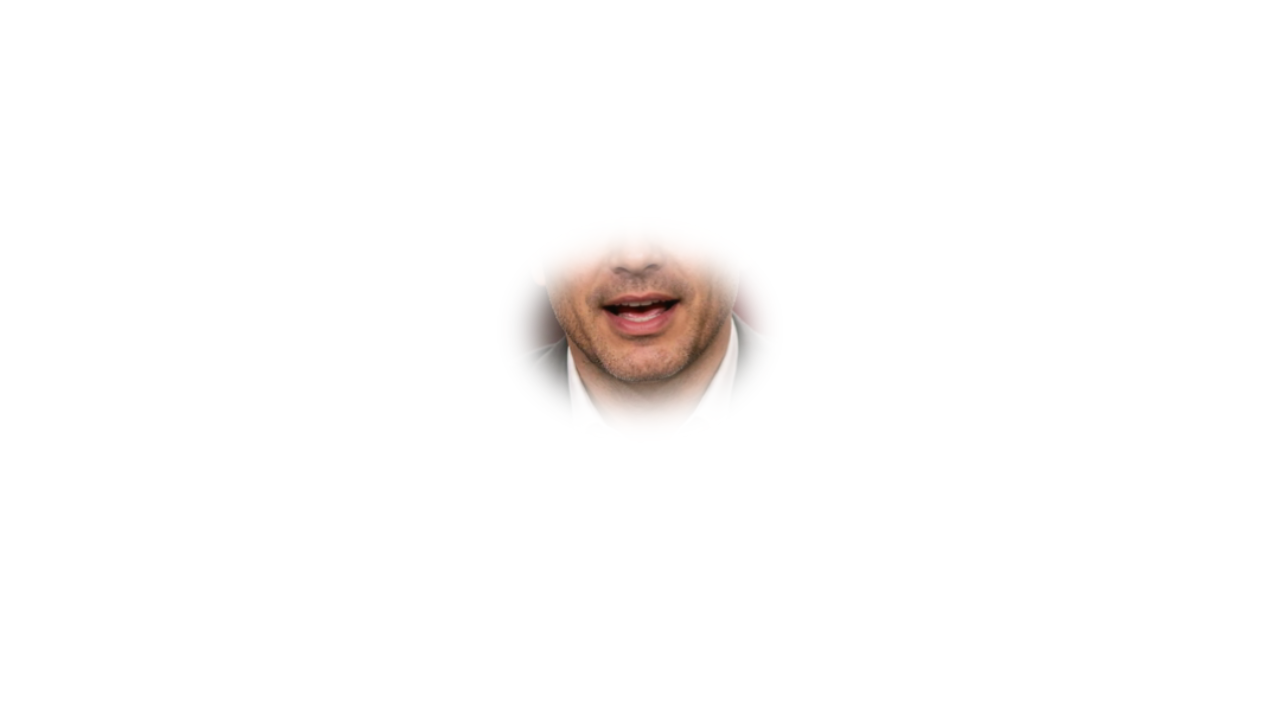
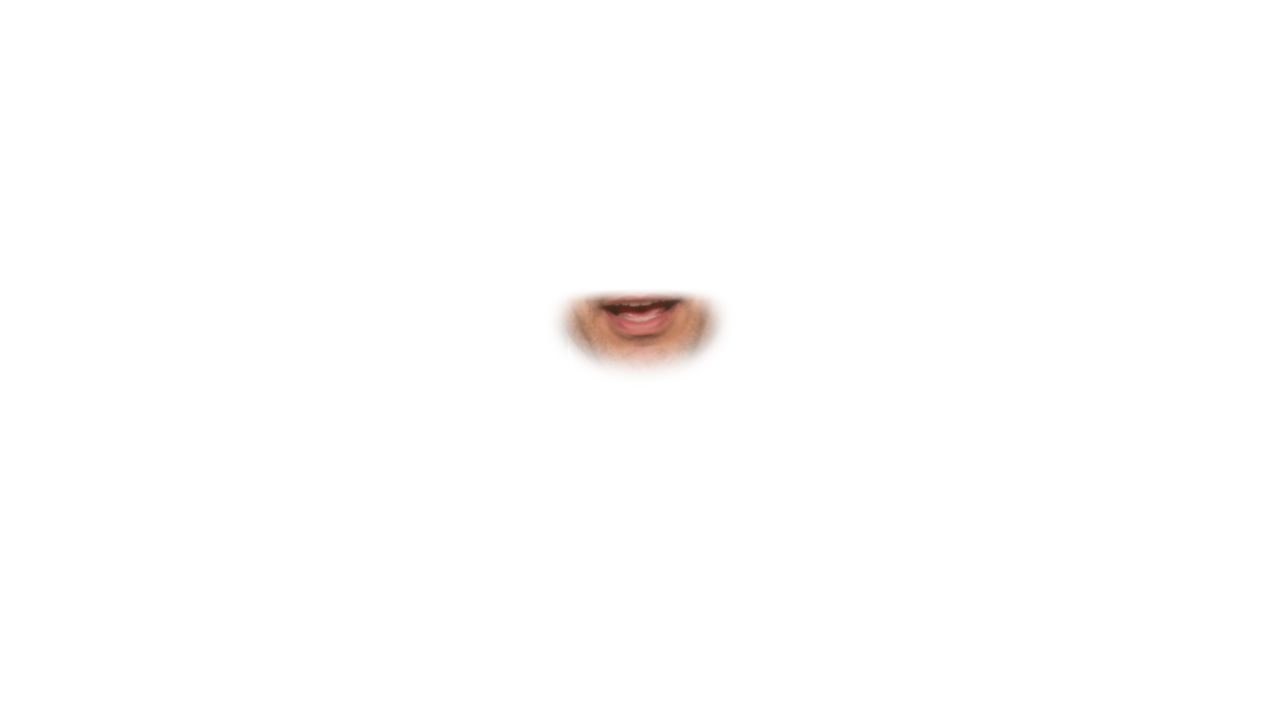
Voice you can follow, and a smaller mouth that leaves the nose alone
MMS drops punctuation, "%", "$" and decimal points, so the anchor's lines came out as run-ons
with mangled figures. speech_text rewrites each line for the ear and cuts it at commas; each
phrase is voiced alone with a short pause, at calmer settings, at a steady level. Whisper as an
offline listener: word errors 0.22 -> 0.17, figures from garbled to word-perfect.

The mouth patch covers only lips and upper chin, with a hard edge under the nose, and opens at
most 70 %, in proportion to loudness (page and segment alike).

Changed region(s): [[0.4062, 0.3361, 0.5938, 0.5806]]

diff --git a/src/studio/web/index.html b/src/studio/web/index.html
@@ -407,6 +407,7 @@ function anchorBus() {
 // The anchor's mouth: how loud his voice is right now, read from the audio being played. Plain
 // arithmetic, no model: the organisers allow only Meta models at runtime, and the open mouth
 // itself was drawn once by Muse Image (scripts/anchor_mouth.py).
+const MOUTH_MAX = 0.7;                   // compose.MOUTH_MAX: the same in the segment
 let mouthLevel = 0, mouthPeak = 0.05;
 const mouthBuf = new Float32Array(1024);
 function mouthOpen() {
@@ -417,7 +418,8 @@ function mouthOpen() {
     rms = Math.sqrt(rms / mouthBuf.length);
   }
   mouthPeak = Math.max(rms, mouthPeak * 0.998, 0.02);      // follows the voice's own loudness
-  const target = rms < 0.006 ? 0 : Math.min(1, rms / (0.7 * mouthPeak)) ** 0.7;
+  // At most 70 % open, and in proportion to loudness: a full flap read as too much.
+  const target = rms < 0.006 ? 0 : MOUTH_MAX * Math.min(1, rms / (0.85 * mouthPeak));
   mouthLevel += (target - mouthLevel) * (target > mouthLevel ? 0.65 : 0.4);  // opens fast, closes softly
   return mouthLevel;
 }

diff --git a/src/studio/speech_text.py b/src/studio/speech_text.py
@@ -1,0 +1,166 @@
+"""The anchor's lines rewritten as words MMS-TTS can say, and cut at commas into phrases.
+
+MMS's English vocabulary is lowercase letters, an apostrophe, a hyphen and a few digits: it drops
+punctuation, "%", "$" and decimal points, so "$2.4m, up 40%" reached the voice as "24m up 40",
+one breathless run-on. Here numbers, money, percentages, years and acronyms become words, and
+each comma or dash becomes a phrase boundary, voiced separately with a short pause between
+(tts.py). Plain string rules, no model.
+"""
+
+from __future__ import annotations
+
+import re
+
+_ONES = [
+    "zero",
+    "one",
+    "two",
+    "three",
+    "four",
+    "five",
+    "six",
+    "seven",
+    "eight",
+    "nine",
+    "ten",
+    "eleven",
+    "twelve",
+    "thirteen",
+    "fourteen",
+    "fifteen",
+    "sixteen",
+    "seventeen",
+    "eighteen",
+    "nineteen",
+]
+_TENS = ["_", "_", "twenty", "thirty", "forty", "fifty", "sixty", "seventy", "eighty", "ninety"]
+_SCALES = [(10**12, "trillion"), (10**9, "billion"), (10**6, "million"), (1000, "thousand")]
+_LETTERS = {
+    "a": "ay", "b": "bee", "c": "see", "d": "dee", "e": "ee", "f": "eff", "g": "jee",
+    "h": "aitch", "i": "eye", "j": "jay", "k": "kay", "l": "el", "m": "em", "n": "en", "o": "oh",
+    "p": "pee", "q": "cue", "r": "ar", "s": "ess", "t": "tee", "u": "you", "v": "vee",
+    "w": "double you", "x": "ex", "y": "why", "z": "zed",
+}  # fmt: skip
+# Acronyms said as words, not letters.
+_SAID_AS_WORDS = {"NASA", "NATO", "OPEC", "COVID", "FIFA", "UNESCO", "SPAC", "ESG", "GAAP"}
+_SAID_AS_WORDS -= {"ESG"}  # E-S-G is spelled out
+_SUFFIX = {"k": "thousand", "m": "million", "mn": "million", "bn": "billion", "b": "billion",
+           "tn": "trillion", "t": "trillion"}  # fmt: skip
+_CURRENCY = {"$": "dollars", "£": "pounds", "€": "euros", "¥": "yen"}
+
+
+def number(n: int) -> str:
+    if n < 0:
+        return "minus " + number(-n)
+    if n < 20:
+        return _ONES[n]
+    if n < 100:
+        t, o = divmod(n, 10)
+        return _TENS[t] + ("-" + _ONES[o] if o else "")
+    if n < 1000:
+        h, r = divmod(n, 100)
+        return _ONES[h] + " hundred" + (" and " + number(r) if r else "")
+    for size, name in _SCALES:
+        if n >= size:
+            big, r = divmod(n, size)
+            rest = "" if not r else (" and " if r < 100 else " ") + number(r)
+            return number(big) + " " + name + rest
+    return str(n)
+
+
+def year(n: int) -> str:
+    if n % 1000 < 10:  # 2005: two thousand and five
+        return number(n)
+    hi, lo = divmod(n, 100)
+    return number(hi) + " " + ("hundred" if lo == 0 else ("oh " if lo < 10 else "") + number(lo))
+
+
+def decimal(text: str) -> str:
+    whole, _, frac = text.partition(".")
+    words = number(int(whole.replace(",", "") or 0))
+    if frac:
+        words += " point " + " ".join(_ONES[int(d)] for d in frac)
+    return words
+
+
+def _money(m: re.Match) -> str:
+    cur, amount, suffix = m.group(1), m.group(2), (m.group(3) or "").lower()
+    words = decimal(amount)
+    if suffix:
+        words += " " + _SUFFIX[suffix]
+    return f"{words} {_CURRENCY[cur]}"
+
+
+def _plain_number(m: re.Match) -> str:
+    raw, suffix = m.group(1), (m.group(2) or "").lower()
+    digits = raw.replace(",", "")
+    if suffix == "" and "." not in digits and "," not in raw and 1100 <= int(digits) <= 2099:
+        return year(int(digits))
+    words = decimal(digits)
+    if suffix in _SUFFIX:
+        words += " " + _SUFFIX[suffix]
+    return words
+
+
+def _acronym(m: re.Match) -> str:
+    word = m.group(0)
+    plural = word.endswith("s") and word[:-1].isupper()
+    core = word[:-1] if plural else word
+    if core in _SAID_AS_WORDS:
+        return core.lower() + ("s" if plural else "")
+    spelled = " ".join(_LETTERS[c] for c in core.lower())
+    return spelled + ("s" if plural else "")
+
+
+def to_speech(text: str) -> str:
+    """One line, written for the ear: every number and symbol as words."""
+    t = text.replace("’", "'").replace("—", ", ").replace("–", ", ")
+    t = re.sub(
+        r"\bQ([1-4])\b",
+        lambda m: "the " + ["first", "second", "third", "fourth"][int(m.group(1)) - 1] + " quarter",
+        t,
+    )  # noqa: E501
+    t = re.sub(r"\bFY ?'?(\d{2})\b", lambda m: "fiscal twenty " + number(int(m.group(1))), t)
+    t = re.sub(
+        r"([$£€¥])\s?((?:\d{1,3}(?:,\d{3})+|\d+)(?:\.\d+)?)(?:\s?(bn|mn|tn|[kmbt])\b)?",
+        _money,
+        t,
+        flags=re.I,
+    )
+    t = re.sub(
+        r"((?:\d{1,3}(?:,\d{3})+|\d+)(?:\.\d+)?)\s?%",
+        lambda m: decimal(m.group(1).replace(",", "")) + " percent",
+        t,
+    )  # noqa: E501
+    t = re.sub(r"(\d+)(st|nd|rd|th)\b", lambda m: _ordinal(int(m.group(1))), t)
+    t = re.sub(
+        r"\b((?:\d{1,3}(?:,\d{3})+|\d+)(?:\.\d+)?)(?:\s?(bn|mn|tn|k)\b)?",
+        _plain_number,
+        t,
+        flags=re.I,
+    )
+    t = re.sub(r"\b[A-Z]{2,5}s?\b", _acronym, t)
+    t = t.replace("&", " and ").replace("+", " plus ").replace("/", " ")
+    return re.sub(r"\s+", " ", t).strip()
+
+
+def _ordinal(n: int) -> str:
+    special = {1: "first", 2: "second", 3: "third", 5: "fifth", 8: "eighth", 9: "ninth",
+               12: "twelfth"}  # fmt: skip
+    if n in special:
+        return special[n]
+    words = number(n)
+    if words.endswith("y"):
+        return words[:-1] + "ieth"
+    last = words.split("-")[-1].split(" ")[-1]
+    if (k := _ONES.index(last) if last in _ONES else -1) in special:
+        return words[: -len(last)] + special[k]
+    return words + "th"
+
+
+def phrases(text: str) -> list[str]:
+    """`text` for the ear, cut at commas, semicolons and colons: each phrase is voiced alone,
+    so the pause the punctuation asked for is really there."""
+    spoken = to_speech(text)
+    parts = [p.strip() for p in re.split(r"[,;:]\s*", spoken)]
+    return [p for p in parts if re.search(r"[a-z]", p, re.I)]

diff --git a/src/studio/tts.py b/src/studio/tts.py
@@ -20,9 +20,17 @@ import re
 import threading
 import wave
 
+from studio.speech_text import phrases
+
 MODEL = "facebook/mms-tts-eng"
-DEFAULT_VOICE = "meta-mms-tts-eng"  # also the greeting cache's key
+DEFAULT_VOICE = "meta-mms-tts-eng-v2"  # also the greeting cache's key: v2 = calmer, rewritten text
 SEED = 7  # one take of the voice's rhythm, the same every run
+# Calmer than MMS's defaults (0.667, 0.8, 1.0): steadier, slightly slower, easier to follow.
+# Measured 2026-10-31 on eight anchor questions with Whisper as the listener (offline, not in
+# the studio): with speech_text's rewriting, word errors fell from 0.22 to 0.17, and the
+# questions with figures went from garbled ("riven you trepled in fist") to word-perfect.
+NOISE_SCALE, NOISE_SCALE_DURATION, SPEAKING_RATE = 0.4, 0.6, 0.92
+PHRASE_PAUSE_S, SENTENCE_TAIL_S = 0.18, 0.12
 _SENTENCE_END = re.compile(r"(?<=[.!?])\s+")
 _lock = asyncio.Lock()
 _model = None
@@ -43,19 +51,31 @@ def _load():
         from transformers import AutoTokenizer, VitsModel
 
         torch.set_num_threads(max(1, min(4, os.cpu_count() or 1)))
-        _model = (AutoTokenizer.from_pretrained(MODEL), VitsModel.from_pretrained(MODEL).eval())
+        model = VitsModel.from_pretrained(MODEL).eval()
+        model.noise_scale, model.noise_scale_duration = NOISE_SCALE, NOISE_SCALE_DURATION
+        model.speaking_rate = SPEAKING_RATE
+        _model = (AutoTokenizer.from_pretrained(MODEL), model)
     return _model
 
 
 def _speak(text: str) -> bytes:
-    """One sentence to 16-bit mono WAV bytes."""
+    """One sentence to 16-bit mono WAV bytes: rewritten for the ear (speech_text), each phrase
+    voiced alone with a short pause between, then brought to a steady level."""
     import numpy as np
     import torch
 
     tok, model = _load()
-    torch.manual_seed(SEED)
-    with torch.inference_mode():
-        audio = model(**tok(text, return_tensors="pt")).waveform[0].numpy()
+    rate = model.config.sampling_rate
+    chunks = []
+    for i, phrase in enumerate(phrases(text) or [text]):
+        if i:
+            chunks.append(np.zeros(int(rate * PHRASE_PAUSE_S), np.float32))
+        torch.manual_seed(SEED)
+        with torch.inference_mode():
+            chunks.append(model(**tok(phrase, return_tensors="pt")).waveform[0].numpy())
+    chunks.append(np.zeros(int(rate * SENTENCE_TAIL_S), np.float32))
+    audio = np.concatenate(chunks)
+    audio *= 0.89 / max(float(np.abs(audio).max()), 1e-3)  # peak at -1 dB, every sentence alike
     pcm = (np.clip(audio, -1, 1) * 32767).astype(np.int16).tobytes()
     out = io.BytesIO()
     with wave.open(out, "wb") as w:

diff --git a/scripts/anchor_mouth.py b/scripts/anchor_mouth.py
@@ -25,7 +25,8 @@ import numpy as np
 
 ASSETS = Path(__file__).resolve().parent.parent / "src" / "studio" / "assets"
 PROMPT = "Same photo, identical in every way, except his mouth is open mid-word, as if speaking"
-MOUTH = ((480, 300), (85, 58))  # centre and radii in anchor.jpg (960x720), by eye
+MOUTH = ((480, 294), (60, 32))  # lips and upper chin in anchor.jpg (960x720), by eye
+NOSE_Y = (266, 276)  # nothing above 266 (the nose ends ~262), full strength from 276
 UPPER_FACE = (330, 110, 630, 330)  # x0, y0, x1, y1: eyes and nose, for the alignment
 # anchor.jpg and anchor-wide.jpg are crops of one Muse Image picture (scripts/anchor_art.py):
 # live crop 1707x1280 at x 106 scaled to 960x720; wide crop 1920x1080 at y 40 scaled to 1280x720.
@@ -65,7 +66,10 @@ def mouth_layer(base: np.ndarray, opened: np.ndarray) -> np.ndarray:
     aligned = cv2.warpAffine(opened, warp, (w, h), flags=cv2.INTER_LINEAR + cv2.WARP_INVERSE_MAP)
     mask = np.zeros((h, w), np.float32)
     cv2.ellipse(mask, *MOUTH, 0, 0, 360, 1, -1)
-    mask = cv2.GaussianBlur(mask, (0, 0), 14)
+    mask = cv2.GaussianBlur(mask, (0, 0), 8)
+    top, full = NOSE_Y  # a hard ceiling under the nose: the feather must not reach it
+    ramp = np.clip((np.arange(h, dtype=np.float32) - top) / (full - top), 0, 1)
+    mask *= ramp[:, None]
     inside = mask > 0.5
     out = aligned.astype(np.float32)
     for c in range(3):  # the edit's light differs a little: match the still's

diff --git a/tests/test_speech_text.py b/tests/test_speech_text.py
@@ -1,0 +1,27 @@
+from studio.speech_text import number, phrases, to_speech, year
+
+
+def test_numbers_and_years():
+    assert number(1250) == "one thousand two hundred and fifty"
+    assert number(42) == "forty-two"
+    assert year(2026) == "twenty twenty-six"
+    assert year(2008) == "two thousand and eight"
+    assert year(1999) == "nineteen ninety-nine"
+
+
+def test_money_percent_acronyms_quarters():
+    assert to_speech("up 40% to $2.4m") == "up forty percent to two point four million dollars"
+    assert to_speech("£22bn") == "twenty-two billion pounds"
+    assert to_speech("the CEO and NASA") == "the see ee oh and nasa"
+    assert to_speech("in Q3 of FY26") == "in the third quarter of fiscal twenty twenty-six"
+    assert to_speech("the 21st season") == "the twenty-first season"
+    assert to_speech("in 2025, 300k staff") == "in twenty twenty-five, three hundred thousand staff"
+
+
+def test_phrases_cut_at_commas_and_dashes():
+    assert phrases("You said 40%, but filings — show less.") == [
+        "You said forty percent",
+        "but filings",
+        "show less.",
+    ]
+    assert phrases("...") == []

diff --git a/src/studio/compose.py b/src/studio/compose.py
@@ -31,6 +31,7 @@ ANCHOR_NAME = "Adrian Hale  |  AI anchor"
 ASSETS = Path(__file__).parent / "assets"
 STUDIO = ASSETS / "studio.jpg"  # Muse Image, scripts/anchor_art.py
 ANCHOR_STUDIO = ASSETS / "anchor-wide.jpg"  # his picture in the wide shot, without lip-sync
+MOUTH_MAX = 0.7  # how far the mouth opens at the loudest; index.html has the same
 ANCHOR_MOUTH = ASSETS / "anchor-mouth-wide.png"  # his open mouth over it (scripts/anchor_mouth.py)
 LIPSYNC_TIMEOUT_S = 300
 CAPTION_SECONDS = 6
@@ -115,7 +116,7 @@ def mouth_envelope(pcm: np.ndarray, rate: int = 16000) -> np.ndarray:
     frames = pcm[: n * hop].astype(np.float32).reshape(n, hop) / 32768
     rms = np.sqrt((frames**2).mean(axis=1))
     peak = max(float(np.percentile(rms, 95)), 0.02)
-    target = np.where(rms < 0.006, 0, np.clip(rms / (0.7 * peak), 0, 1) ** 0.7)
+    target = np.where(rms < 0.006, 0, MOUTH_MAX * np.clip(rms / (0.85 * peak), 0, 1))
     level, out = 0.0, np.empty(n)
     for i, t in enumerate(target):  # opens fast, closes softly
         level += (t - level) * (0.65 if t > level else 0.4)

diff --git a/tests/test_compose.py b/tests/test_compose.py
@@ -114,7 +114,7 @@ async def test_text_card(tmp_path):
 
 
 def test_mouth_envelope_follows_loudness():
-    """Silence keeps the mouth shut; speech opens it; it never leaves 0-1."""
+    """Silence keeps the mouth shut; speech opens it, never past MOUTH_MAX."""
     rate = 16000
     silence = np.zeros(rate, np.int16)
     tone = (np.sin(np.arange(rate) / 8) * 12000).astype(np.int16)
@@ -122,6 +122,6 @@ def test_mouth_envelope_follows_loudness():
     fps = compose.FPS
     assert len(env) == 3 * fps
     assert env[: fps - 1].max() == 0
-    assert env[fps + 5 : 2 * fps].min() > 0.8
+    assert env[fps + 5 : 2 * fps].min() > 0.6
     assert env[-5:].max() < 0.05
-    assert env.min() >= 0 and env.max() <= 1
+    assert env.min() >= 0 and env.max() <= compose.MOUTH_MAX

diff --git a/NEW_WORK.md b/NEW_WORK.md
@@ -17,6 +17,20 @@ the record. Every entry links to the commits that built it.
 
 ## Built during the hackathon (Oct 26, 12:24 PM ET – Nov 4, 2026)
 
+### Oct 31 (evening): a voice you can follow, a smaller mouth
+
+After the operator's first test ("very robotic", questions not understood; the mouth moved too
+much and even moved his nose):
+
+- MMS's English vocabulary has no punctuation, "%", "$" or decimal point, so lines arrived as
+  run-ons with figures mangled. `src/studio/speech_text.py` rewrites each line for the ear
+  (numbers, money, percentages, years, quarters, acronyms) and cuts it at commas; each phrase is
+  voiced alone with a 0.18 s pause, at calmer settings (noise 0.4, rate 0.92) and a steady level.
+  Measured with Whisper as the listener, offline: word errors 0.22 to 0.17, and the questions
+  with figures went from garbled ("riven you trepled in fist") to word-perfect.
+- The mouth patch now covers only the lips and upper chin, with a hard edge under the nose, and
+  opens at most 70 %, in proportion to loudness.
+
 ### Oct 31: an anchor made entirely with Meta's models
 
 The organisers' answer (Discord, Oct 31): everything built on must be open source or self-made,
